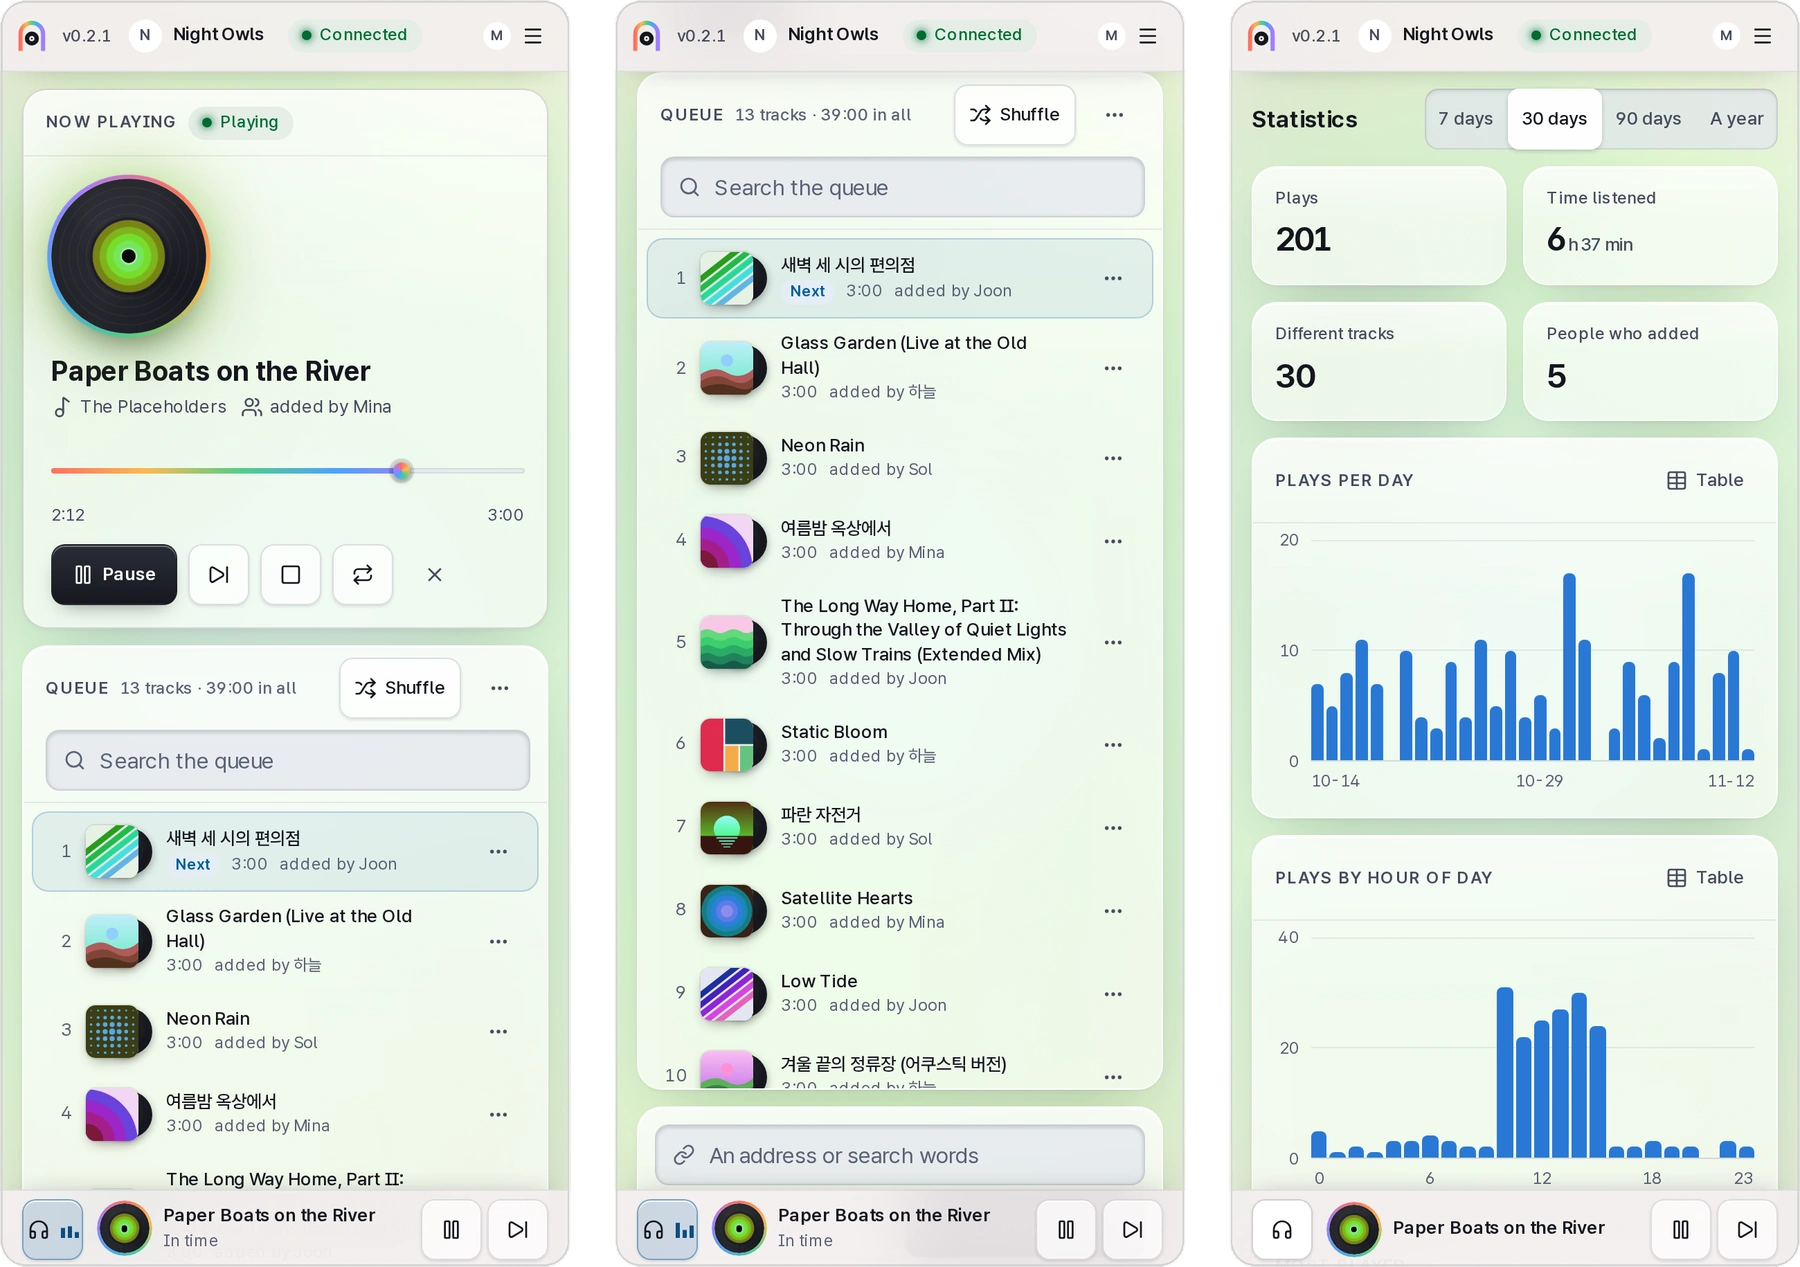
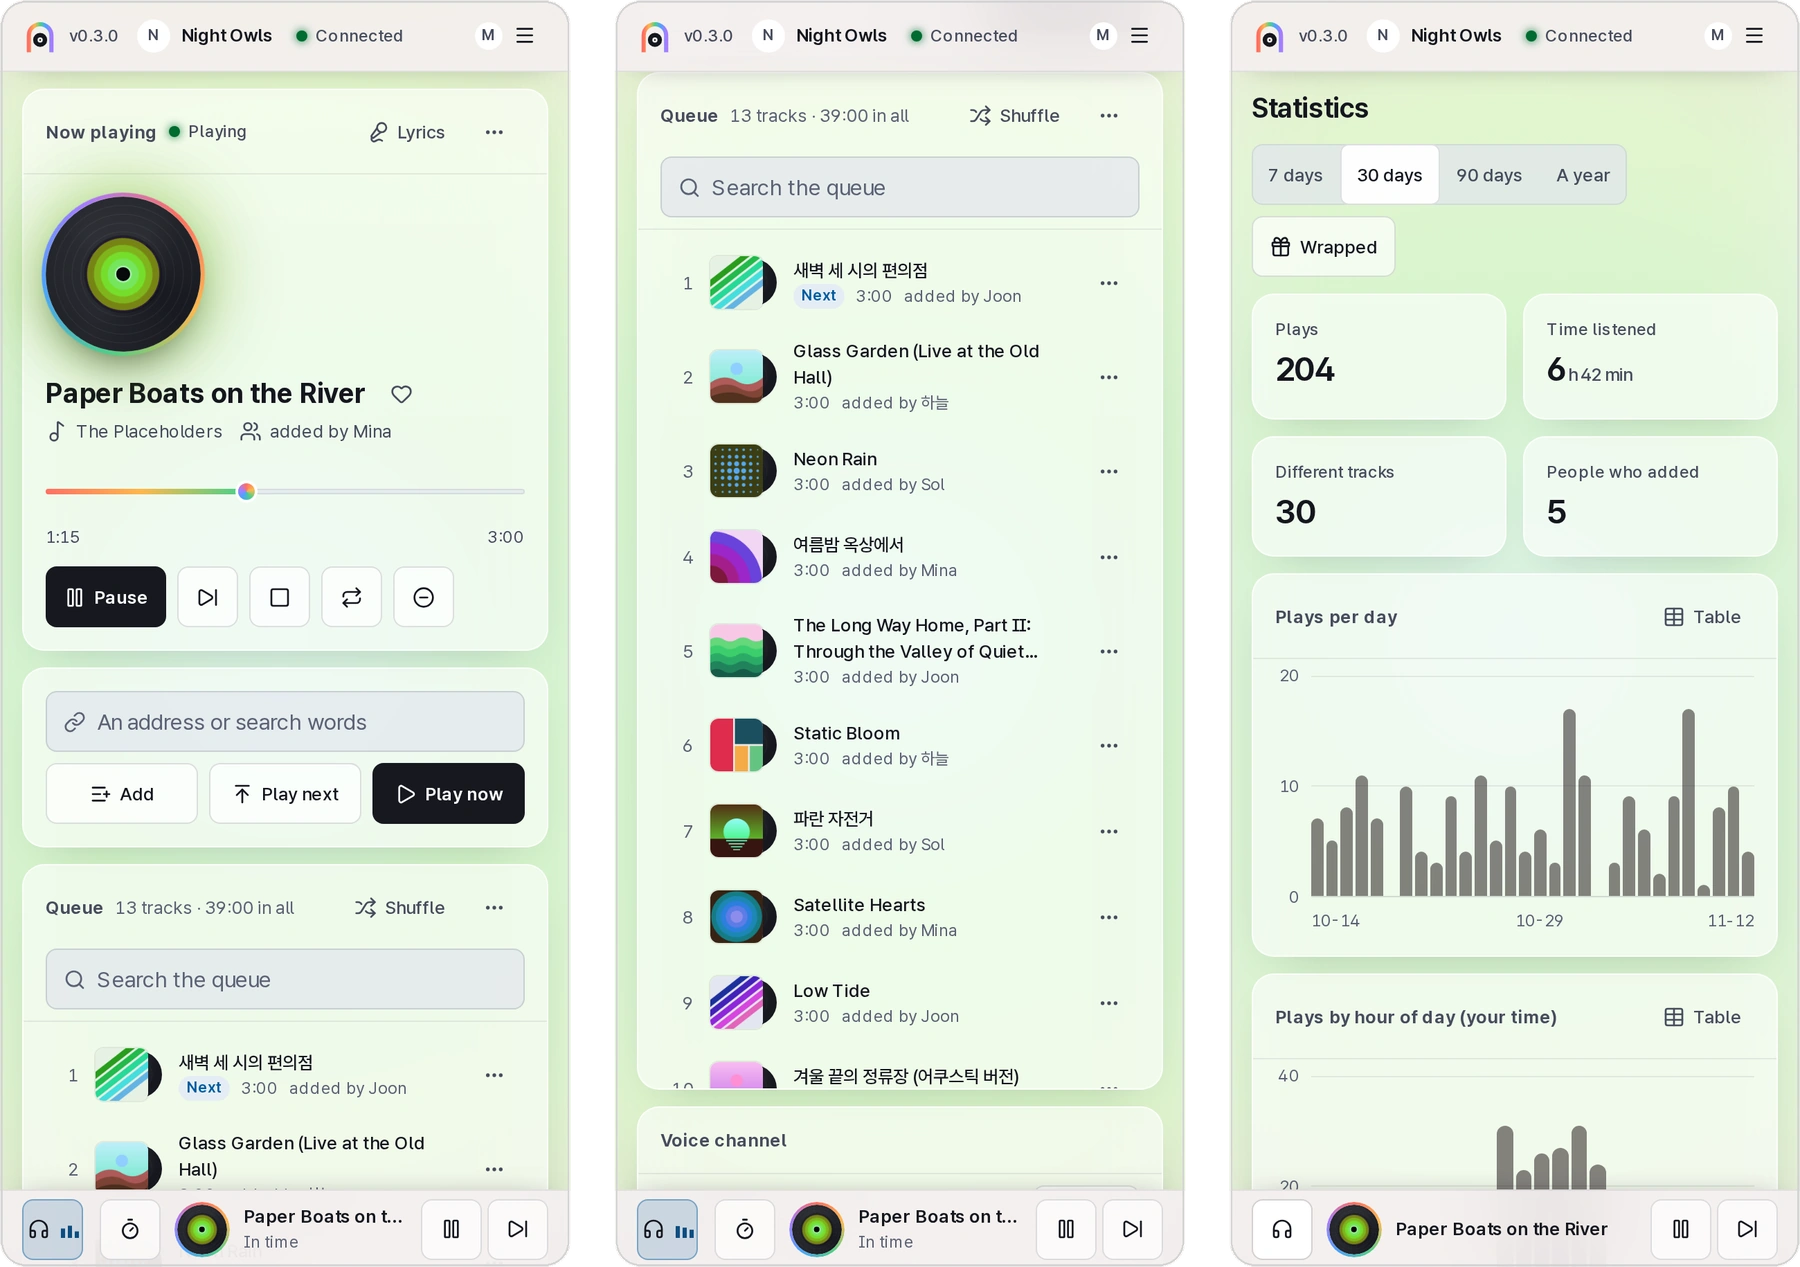
Release 0.3.0
Search and pick, autoplay, likes, playlists as files, links from other services, lyrics in time, listening links for guests, a light that moves with the music, an app on a phone, vote skip and taking turns, a volume and a sound for the voice channel, Wrapped, a panel evened out, and the fixes of the 0.3 checks: CHANGELOG.md has them all.

diff --git a/src/version.ts b/src/version.ts
@@ -4,4 +4,4 @@
  * package.json, the Helm chart and the container image carry the same number, and a packaging test fails when one
  * of them drifts from it. Releases follow Semantic Versioning; the tag that publishes one is `v` followed by this value.
  */
-export const VERSION = '0.2.1';
+export const VERSION = '0.3.0';

diff --git a/CHANGELOG.md b/CHANGELOG.md
@@ -6,6 +6,136 @@ All notable changes to jukecord are documented here. The format is based on
 
 ## [Unreleased]
 
+## [0.3.0] - 2026-11-13
+
+What no other bot does, made more of: the queue heard in any browser in step with the voice channel now has guests
+without a Discord account, lyrics everyone follows at the same line, a light that moves with the music, and an app to
+install. And what the others had that jukecord lacked: search and pick, autoplay, likes, vote skip, taking turns, a
+voice volume and sound, links from other services, playlists as files, and a year in music.
+
+### Added
+
+- **Search and pick.** Search words show what YouTube found (cover, title, length, channel) under the add field, to
+  play now, play next or add; Discord suggests the same while `/play` and `/add` are typed, and `jukecord search`
+  prints it. Results are kept for half an hour, and searches have a rate of their own. The add card has a Play next
+  key, history rows have play now, play next and add again, and a link pasted or dropped anywhere on the page is
+  added.
+- **Autoplay.** When the queue runs out, a track from this server's own plays (likes count double, nothing of the last
+  30 plays) or from YouTube's mix of the track playing; one is queued as the last track starts, so there is no gap.
+  Its rows say "Autoplay", and statistics and Wrapped leave them out of who added most. `/autoplay`,
+  `jukecord autoplay`, the queue card's head.
+- **Likes.** A heart on the playing track, in a queue row's menu and on history rows; a Liked list in the card of
+  Recently played, with play now, next, add and add all. `/like`, `/likes`, `jukecord like|likes|unlike`.
+- **Playlists as files.** A saved playlist exported as a list of addresses, M3U or jukecord's JSON, and imported from
+  any of those or a pasted list: up to 500 entries, of which at most 100 that need looking up (an address jukecord has
+  not met, or words, searched on YouTube). From the playlists dialog, `/playlist export|import` (a file up to 1 MiB)
+  and `jukecord playlist export|import`; `./jukecord` reads the file where the command is typed.
+- **Links from other services.** Deezer tracks, albums and playlists; Spotify tracks (albums and playlists too with
+  the host's app credentials, `JUKECORD_SPOTIFY_CLIENT_ID` and `JUKECORD_SPOTIFY_CLIENT_SECRET` or `_SECRET_FILE`);
+  Apple Music tracks. Each is matched to a YouTube recording by length and title, official audio first, at most 100
+  per link. `JUKECORD_LINK_SERVICES` chooses the services (all three by default, `none` for none).
+- **Lyrics in time.** The words of the track playing, from LRCLIB, beside the player (a sheet on a phone), the line
+  being sung lit; whoever may change the music picks a line to play from there. `/lyrics`,
+  `jukecord lyrics [--synced]`; `JUKECORD_LYRICS=off` turns them off. jukecord sends LRCLIB the song's title, artist,
+  album and length, once per track, only when someone opens its lyrics.
+- **Listening links for guests.** A link for 1, 7 or 30 days lets anyone listen along to one server in a browser
+  without a Discord account: the player, the queue and Listen here, nothing to change. Revoking it ends its guests at
+  once. The host can also let a friend in to look or to change the music with a login link
+  (`jukecord link --scope read|control`). Both from one Invite dialog, with a QR code drawn by the panel; `/share`,
+  `jukecord share|shares|unshare`.
+- **A light that moves with the music** while a browser listens: the glow behind the disc and the light behind the
+  glass follow the low end; it rests when the tab is hidden, the music pauses or motion is off.
+- **An app on a phone.** The panel installs to a home screen and opens like an app (over https or on this computer);
+  on Android, a video shared from another app opens a page to add it to the queue.
+- **Stop after this track, and a sleep timer.** The player stops when the track ends (the player's menu,
+  `/stop after-track:`, `jukecord stop --after-track`), and a browser stops listening after 15, 30 or 60 minutes or at
+  the end of the track.
+- **Vote skip.** Where a DJ role is set, Skip from anyone without it is a vote; the track goes when half of the people
+  listening in the voice channel and in their browsers have voted (guests of a listening link do not vote). The Skip
+  key and the Discord card show the count. On by default; `/voteskip`, `jukecord voteskip on|off` or the menu's Server
+  settings turn it off.
+- **Taking turns, and a limit per person.** Tracks added go so that people take turns, or the queue is put in turns
+  once; a server can limit how many tracks one person queues. `/turns`, `/limit`, `jukecord turns|limit`, the menu's
+  Server settings.
+- **Stay in voice.** A server can keep the bot in its channel when everyone has left (`/stay`, `jukecord stay`, the
+  menu).
+- **A volume and a sound for the voice channel.** 0-200 %, and presets: more bass, clearer voices, brighter, softer at
+  night. Browsers playing along hear the same preset at their own volume. At 100 % with no preset the cached sound
+  goes to Discord untouched; another volume or a preset costs 2 to 3 % of one core per stream. The voice card,
+  `/volume`, `/sound`, `jukecord volume|sound`.
+- **Wrapped.** A server's year in music, a month, or the last 12 months: plays and hours, the song of the year (the
+  track played on the most days), the most played tracks and who added most, the busiest day and hour, the longest
+  day and the first track; saved as a picture for a story or a post. `/wrapped`, `jukecord wrapped`.
+- **Looks after itself.** A server nobody hears anywhere (the bot out of voice, no browser playing) pauses after two
+  minutes instead of fetching and counting plays for nobody (`JUKECORD_REST_AFTER`); after a restart the bot goes back
+  to its voice channel when people are there; the newest now-playing card in Discord follows the music; an alerts
+  channel of the server's choosing (`/alerts`, `jukecord alerts`, the menu) hears about trouble (YouTube refusing
+  jukecord, a watchdog restart, a disk nearly full, a daily backup that failed, a track leaving a looping queue,
+  connections turned away); and a backup can be made every day (`JUKECORD_BACKUP_AT`, `JUKECORD_BACKUP_KEEP`), which
+  `doctor` reports with what the database's write-ahead log holds.
+
+### Changed
+
+- The panel, evened out: the controls of a row one height on one centre, a key's words on the centre of its icon, and
+  cards side by side one top and one bottom, measured to half a pixel on every screen the walk opens; one spacing
+  scale, six type sizes whose lines centre their letters, and one rule for corners; flat frosted glass, its keys a face
+  and a 1px line; no glows or pools of light, coloured stripes, tinted boxes or boxes inside boxes; a row's title on
+  two lines at most (the whole of it on hover) with one line under it; two lines nobody needed taken out.
+- Covers come from jukecord: each track's picture, and a search result's, is fetched once by the server (public
+  addresses only) and kept with the track in its cache, so browsers never ask the image hosts.
+- The add card sits above the queue, and on top of an empty one with an example of what to add.
+- The player says "Waiting for its turn" while a track waits for a fetch, and a notice under the title when something
+  happened to the music ("Paused with nobody listening", a track taken out of a looping queue).
+- Look-ups in Discord (`/history`, `/stats`, `/lyrics`, `/likes` and the rest) answer the person who asked only, as
+  `/queue` already did.
+- The command line exits with 4 when jukecord says to try again in a moment (an answer with Retry-After, which a busy
+  moment now carries too), gives its errors as JSON under `--json`, shows one command with `help <command>`, and says
+  validation mistakes in words.
+- `./jukecord` runs the container in the host's time zone, and statistics count their days in jukecord's time zone
+  instead of UTC.
+- Korean throughout, read again by a native reader: 추가 for adding, 라이트/다크/시스템 for the themes, 맞춰 재생 중 for
+  "In time", and the refusals the bot and the panel share. `/resume` is `/이어재생` in Korean (it was `/다시재생`).
+- The API has 22 new operations (`docs/API.md`) and two pictures of its own (a track's cover, a search result's); a
+  skip may name the track it is for (`?track=`); `/metrics` counts the cached covers.
+- The database moves to a new schema the first time 0.3.0 starts, which 0.2.1 does not open: a backup made before
+  updating (`./jukecord backup`) is the way back.
+
+### Fixed
+
+- A long track could not be heard in a browser that needs MP3 (Safari, iOS): the wait for the copy ran into the
+  two-minute idle close. It is answered "not now" until the copy is ready.
+- `./jukecord restore` refused any backup over 256 MiB and gave the Node version as the reason.
+- A looping queue let a track go during a YouTube bot-check or an outage, as a track played from the cache counted as
+  proof that the site worked.
+- The player timed its position and seeks by the system clock; set back, the bar and seeks stood still.
+- More than 16 pipelined requests lost every answer; the cap of 256 connections per address and the read rate per
+  address turned away people sharing one address (a household, Docker's bridge) and said nothing; the probe at a cap
+  closed a tab that stalled for five seconds.
+- A second press of Skip, or the Skip of a stale card, skipped the next track as well: a skip names the track it is
+  for.
+- Pause on a paused track said nothing was playing, and a stale card's button refused wrongly.
+- A backup of a large database stalled the voice and could set off the watchdog: it is written in a worker thread.
+- A machine that could not reach the internet was told that every site did not exist; adding and playing now say
+  that jukecord cannot reach the internet.
+- In Discord: a voice channel at its member limit is said to be full at once, `/join` to the bot's own channel does
+  nothing, `/playlist save` over a name says it replaced the list, and `/queue` past its last page shows the last.
+- On the command line: an uptime past a day reads in days and hours, a listening time never reads "0 h 60 min", and
+  `./jukecord` says a mistyped command is not one while jukecord is down, and passes on words it does not know while
+  it runs.
+- In the panel: the focus was lost after almost every key press; a reverse proxy's error page showed as a JavaScript
+  error; short laptop windows hid the add field; the N shortcut did nothing in Hangul input mode; people who may only
+  look saw drag grips.
+
+### Security
+
+- Guests of a listening link have their own kind of login: an allow-list of what they reach (the player, the queue
+  and the lyrics of their server), codes of 32 random bytes kept as hashes and sent after "#", a cap of guests per link.
+- Every outside request (covers, lyrics, Deezer, Spotify) resolves the name itself, connects only to the public
+  address it checked, and checks each redirect again (unless `JUKECORD_ALLOW_PRIVATE_ADDRESSES` is set); lyrics follow
+  no redirect at all.
+- The panel's content security policy allows pictures from jukecord and from Discord's own address only; it allowed
+  any https address.
+
 ## [0.2.1] - 2026-11-12
 
 ### Changed
@@ -367,7 +497,8 @@ Hardened before the release, after a review of the web side, the fetching and th
 - Everything jukecord writes is readable by its own user only, and a database copied in with a looser mode is made so
   again when it is opened.
 
-[Unreleased]: https://github.com/kanggu12/jukecord/compare/v0.2.1...HEAD
+[Unreleased]: https://github.com/kanggu12/jukecord/compare/v0.3.0...HEAD
+[0.3.0]: https://github.com/kanggu12/jukecord/compare/v0.2.1...v0.3.0
 [0.2.1]: https://github.com/kanggu12/jukecord/compare/v0.2.0...v0.2.1
 [0.2.0]: https://github.com/kanggu12/jukecord/compare/v0.1.1...v0.2.0
 [0.1.1]: https://github.com/kanggu12/jukecord/compare/v0.1.0...v0.1.1

diff --git a/docs/OFFLINE.md b/docs/OFFLINE.md
@@ -27,8 +27,8 @@ gunzip -c jukecord.tar.gz | docker load
 
 `compose.yaml` uses `jukecord:local` by default, so `./jukecord up` uses the loaded image without building.
 
-A released image works the same way: `docker pull ghcr.io/kanggu12/jukecord:0.2.1` on the machine with access, save
-and load it as above, and set `JUKECORD_IMAGE=ghcr.io/kanggu12/jukecord:0.2.1` in `.env`. The image is built for amd64
+A released image works the same way: `docker pull ghcr.io/kanggu12/jukecord:0.3.0` on the machine with access, save
+and load it as above, and set `JUKECORD_IMAGE=ghcr.io/kanggu12/jukecord:0.3.0` in `.env`. The image is built for amd64
 and arm64; to carry it to a machine of the other kind, pull it with `--platform linux/arm64` (or `linux/amd64`).
 
 ## On Kubernetes without the internet
@@ -37,14 +37,14 @@ Fetch the chart and the image where there is access, and put the image in a regi
 
 ```bash
 # on a machine with access
-helm pull oci://ghcr.io/kanggu12/charts/jukecord --version 0.2.1
-docker pull ghcr.io/kanggu12/jukecord:0.2.1
-docker save ghcr.io/kanggu12/jukecord:0.2.1 | gzip > jukecord-image.tar.gz
+helm pull oci://ghcr.io/kanggu12/charts/jukecord --version 0.3.0
+docker pull ghcr.io/kanggu12/jukecord:0.3.0
+docker save ghcr.io/kanggu12/jukecord:0.3.0 | gzip > jukecord-image.tar.gz
 # inside, where the cluster's registry is
 gunzip -c jukecord-image.tar.gz | docker load
-docker tag ghcr.io/kanggu12/jukecord:0.2.1 registry.example.internal/jukecord:0.2.1
-docker push registry.example.internal/jukecord:0.2.1
-helm install jukecord ./jukecord-0.2.1.tgz -n jukecord --create-namespace \
+docker tag ghcr.io/kanggu12/jukecord:0.3.0 registry.example.internal/jukecord:0.3.0
+docker push registry.example.internal/jukecord:0.3.0
+helm install jukecord ./jukecord-0.3.0.tgz -n jukecord --create-namespace \
   --set image.repository=registry.example.internal/jukecord
 ```
 

diff --git a/README.md b/README.md
@@ -12,7 +12,7 @@
 
 <p align="center">
   <a href="https://github.com/kanggu12/jukecord/actions/workflows/ci.yml"><img alt="CI" src="https://github.com/kanggu12/jukecord/actions/workflows/ci.yml/badge.svg"></a>
-  <a href="https://github.com/kanggu12/jukecord/releases"><img alt="Release v0.2.1" src="docs/assets/badges/release.svg"></a>
+  <a href="https://github.com/kanggu12/jukecord/releases"><img alt="Release v0.3.0" src="docs/assets/badges/release.svg"></a>
   <a href="LICENSE"><img alt="License: MIT" src="docs/assets/badges/license.svg"></a>
   <img alt="Runs on amd64 and arm64" src="docs/assets/badges/platforms.svg">
 </p>
@@ -175,7 +175,7 @@ people use most.
 ### Light on a small machine
 
 On two processor cores, with a year of use in it (a thousand tracks queued, 10,000 plays), jukecord rests at about
-80 MB of memory, answers every read the panel makes in about 20 ms or less, and has a four-minute track ready in
+85 MiB of memory, answers every read the panel makes in about 20 ms or less, and has a four-minute track ready in
 about 3.5 s. A thousand panels open at once see each change of that queue within about a tenth of a second, and cost
 the server 112 MiB and under three quarters of one core while it changes three times a second
 ([how it was measured](docs/TESTING.md#measurements)).

diff --git a/docs/INSTALL.md b/docs/INSTALL.md
@@ -40,8 +40,8 @@ The front door's other commands:
 | `./jukecord down`                  | stops it; the data stays in the `jukecord_jukecord-data` volume                                          |
 | `./jukecord <command>`             | the [jukecord command](README.md#the-jukecord-command): `np`, `add`, `token create` ...                  |
 
-To use a released image instead of building one, set `JUKECORD_IMAGE=ghcr.io/kanggu12/jukecord:0.2.1` in `.env`.
-`gh attestation verify oci://ghcr.io/kanggu12/jukecord:0.2.1 --repo kanggu12/jukecord` checks that GitHub signed it as
+To use a released image instead of building one, set `JUKECORD_IMAGE=ghcr.io/kanggu12/jukecord:0.3.0` in `.env`.
+`gh attestation verify oci://ghcr.io/kanggu12/jukecord:0.3.0 --repo kanggu12/jukecord` checks that GitHub signed it as
 built by this repository's release workflow (the chart's `.tgz` from the release page is checked the same way).
 
 ### A second copy on the same machine

diff --git a/docs/TESTING.md b/docs/TESTING.md
@@ -85,6 +85,9 @@ the internet or Discord. On two cores of a desktop processor, jukecord 0.2.1 gav
 | A thousand panels connected while the queue changes 3 times a second | all stay connected; a change reaches a panel in 29 ms (the median; the slowest 105 ms) |
 | The server during that crowd                                         | up to 71 % of one core, 112 MiB                                                        |
 
+jukecord 0.3.0 and 0.2.1, measured back to back on the same machine while other work kept it busier, took the same
+times, and 0.3.0 rested at 85 MiB, 6 MiB more.
+
 The crowd is `tests/perf/crowd.ts` in a container of its own, so its thousand panels come from one address as they do
 through a reverse proxy (the server is told it is behind one): each panel asks for gzip frames as a browser does, and
 a change is timed from the request that makes it to the frame that carries it. The server runs this checkout's source
